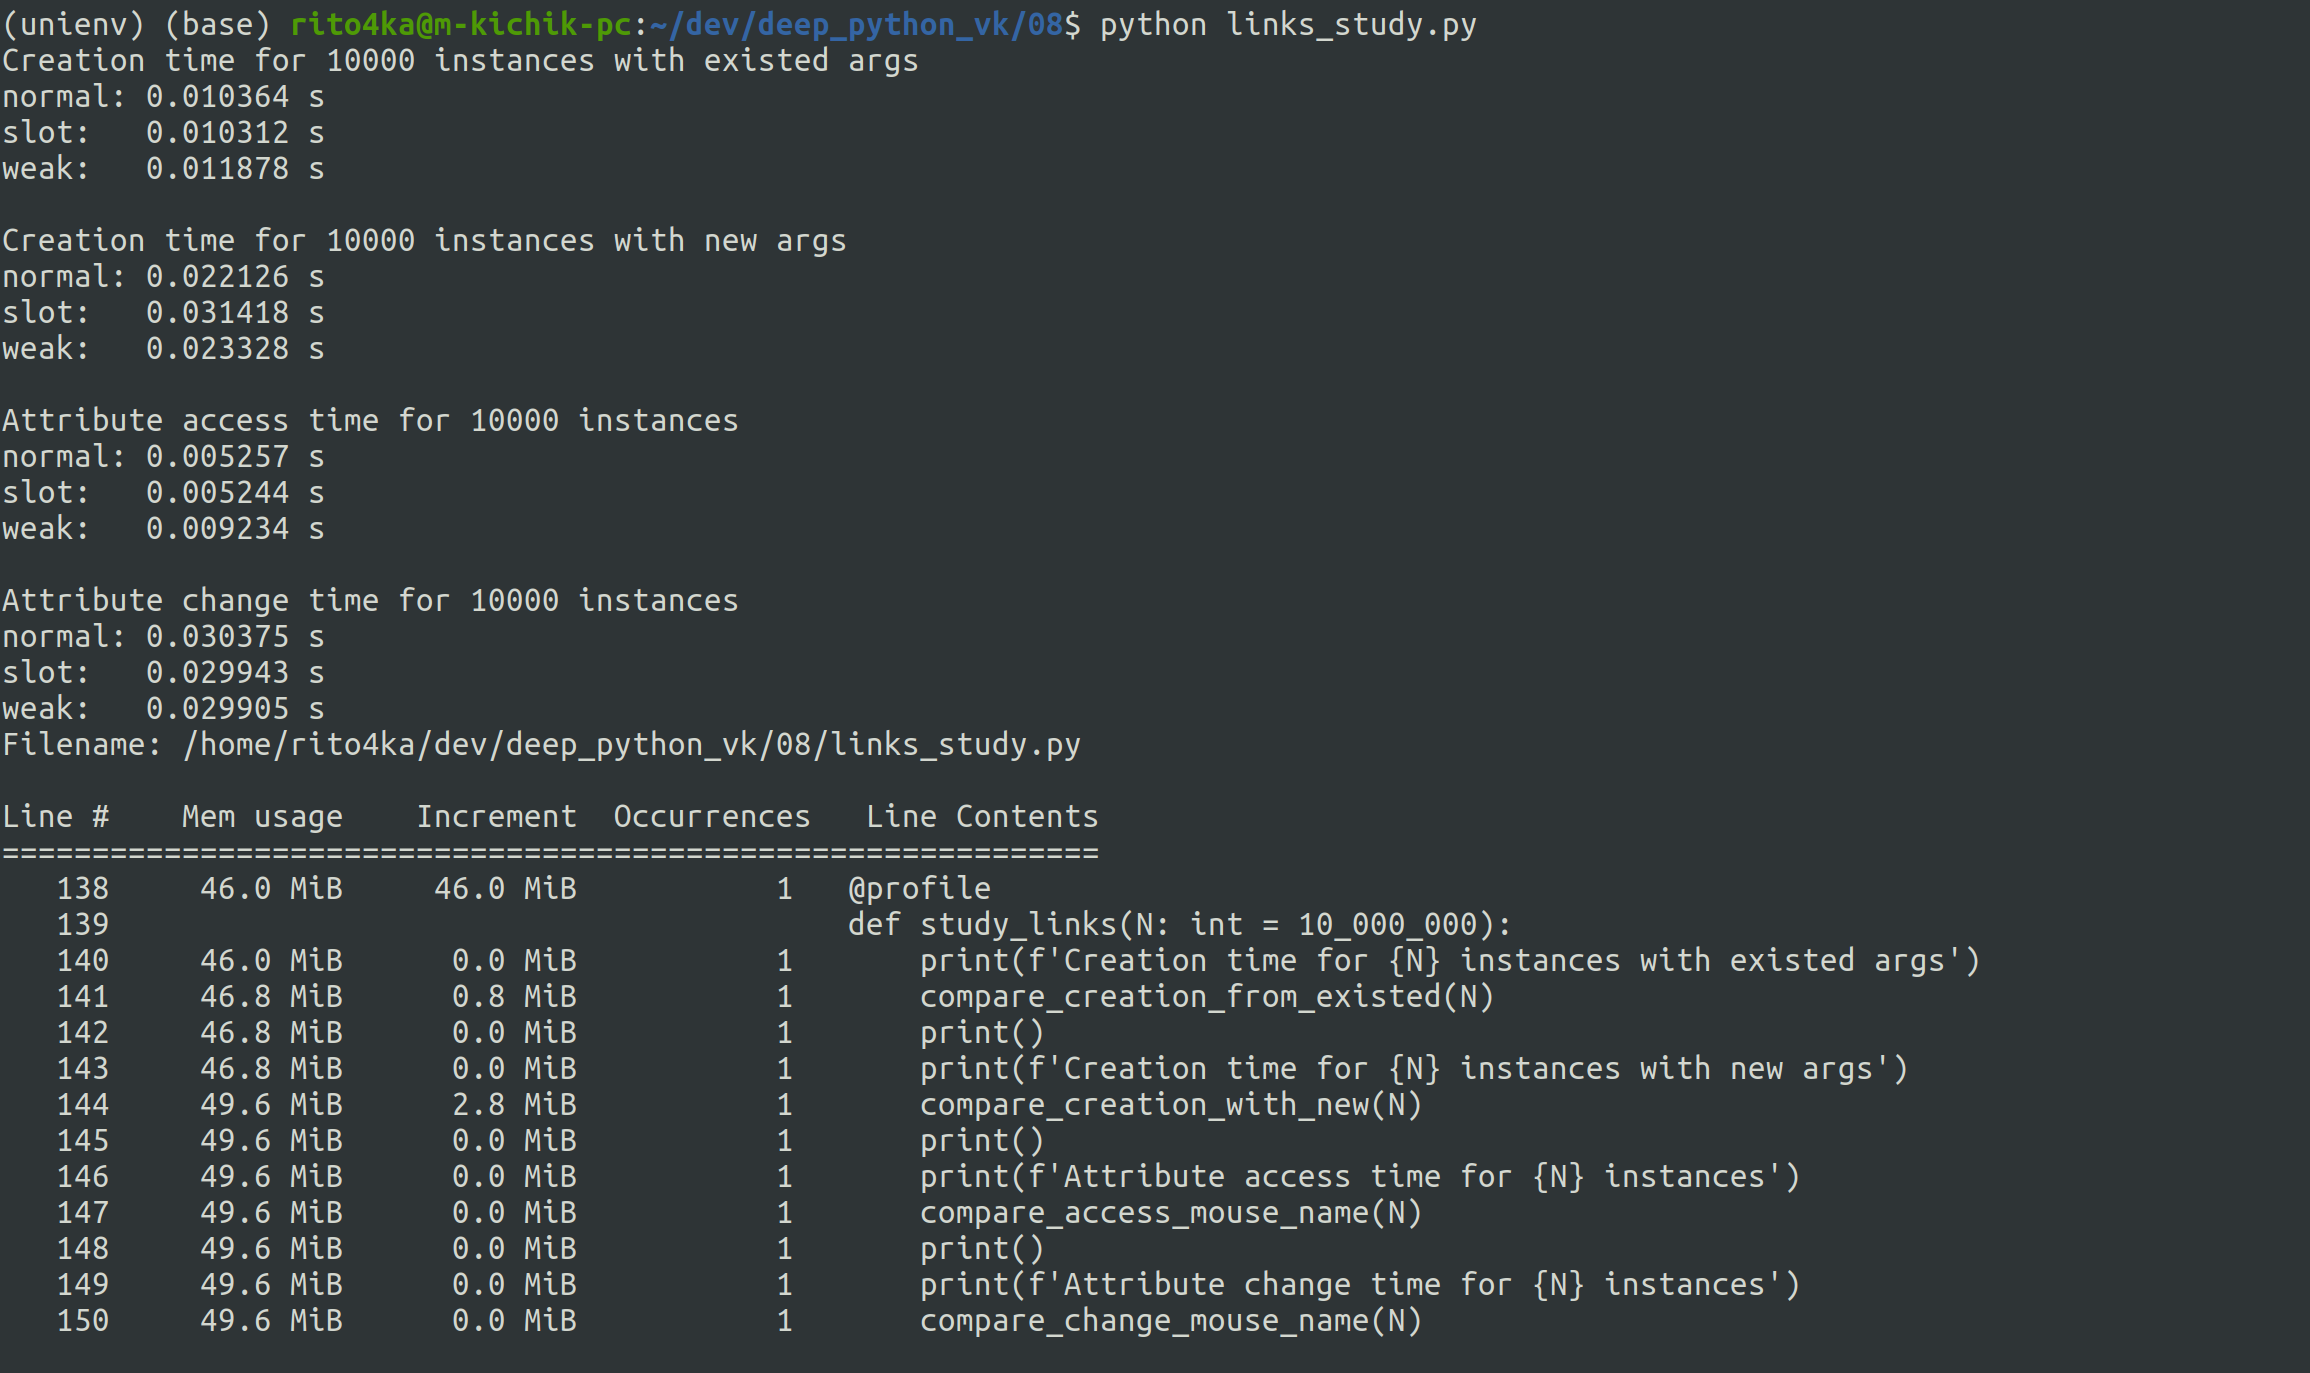
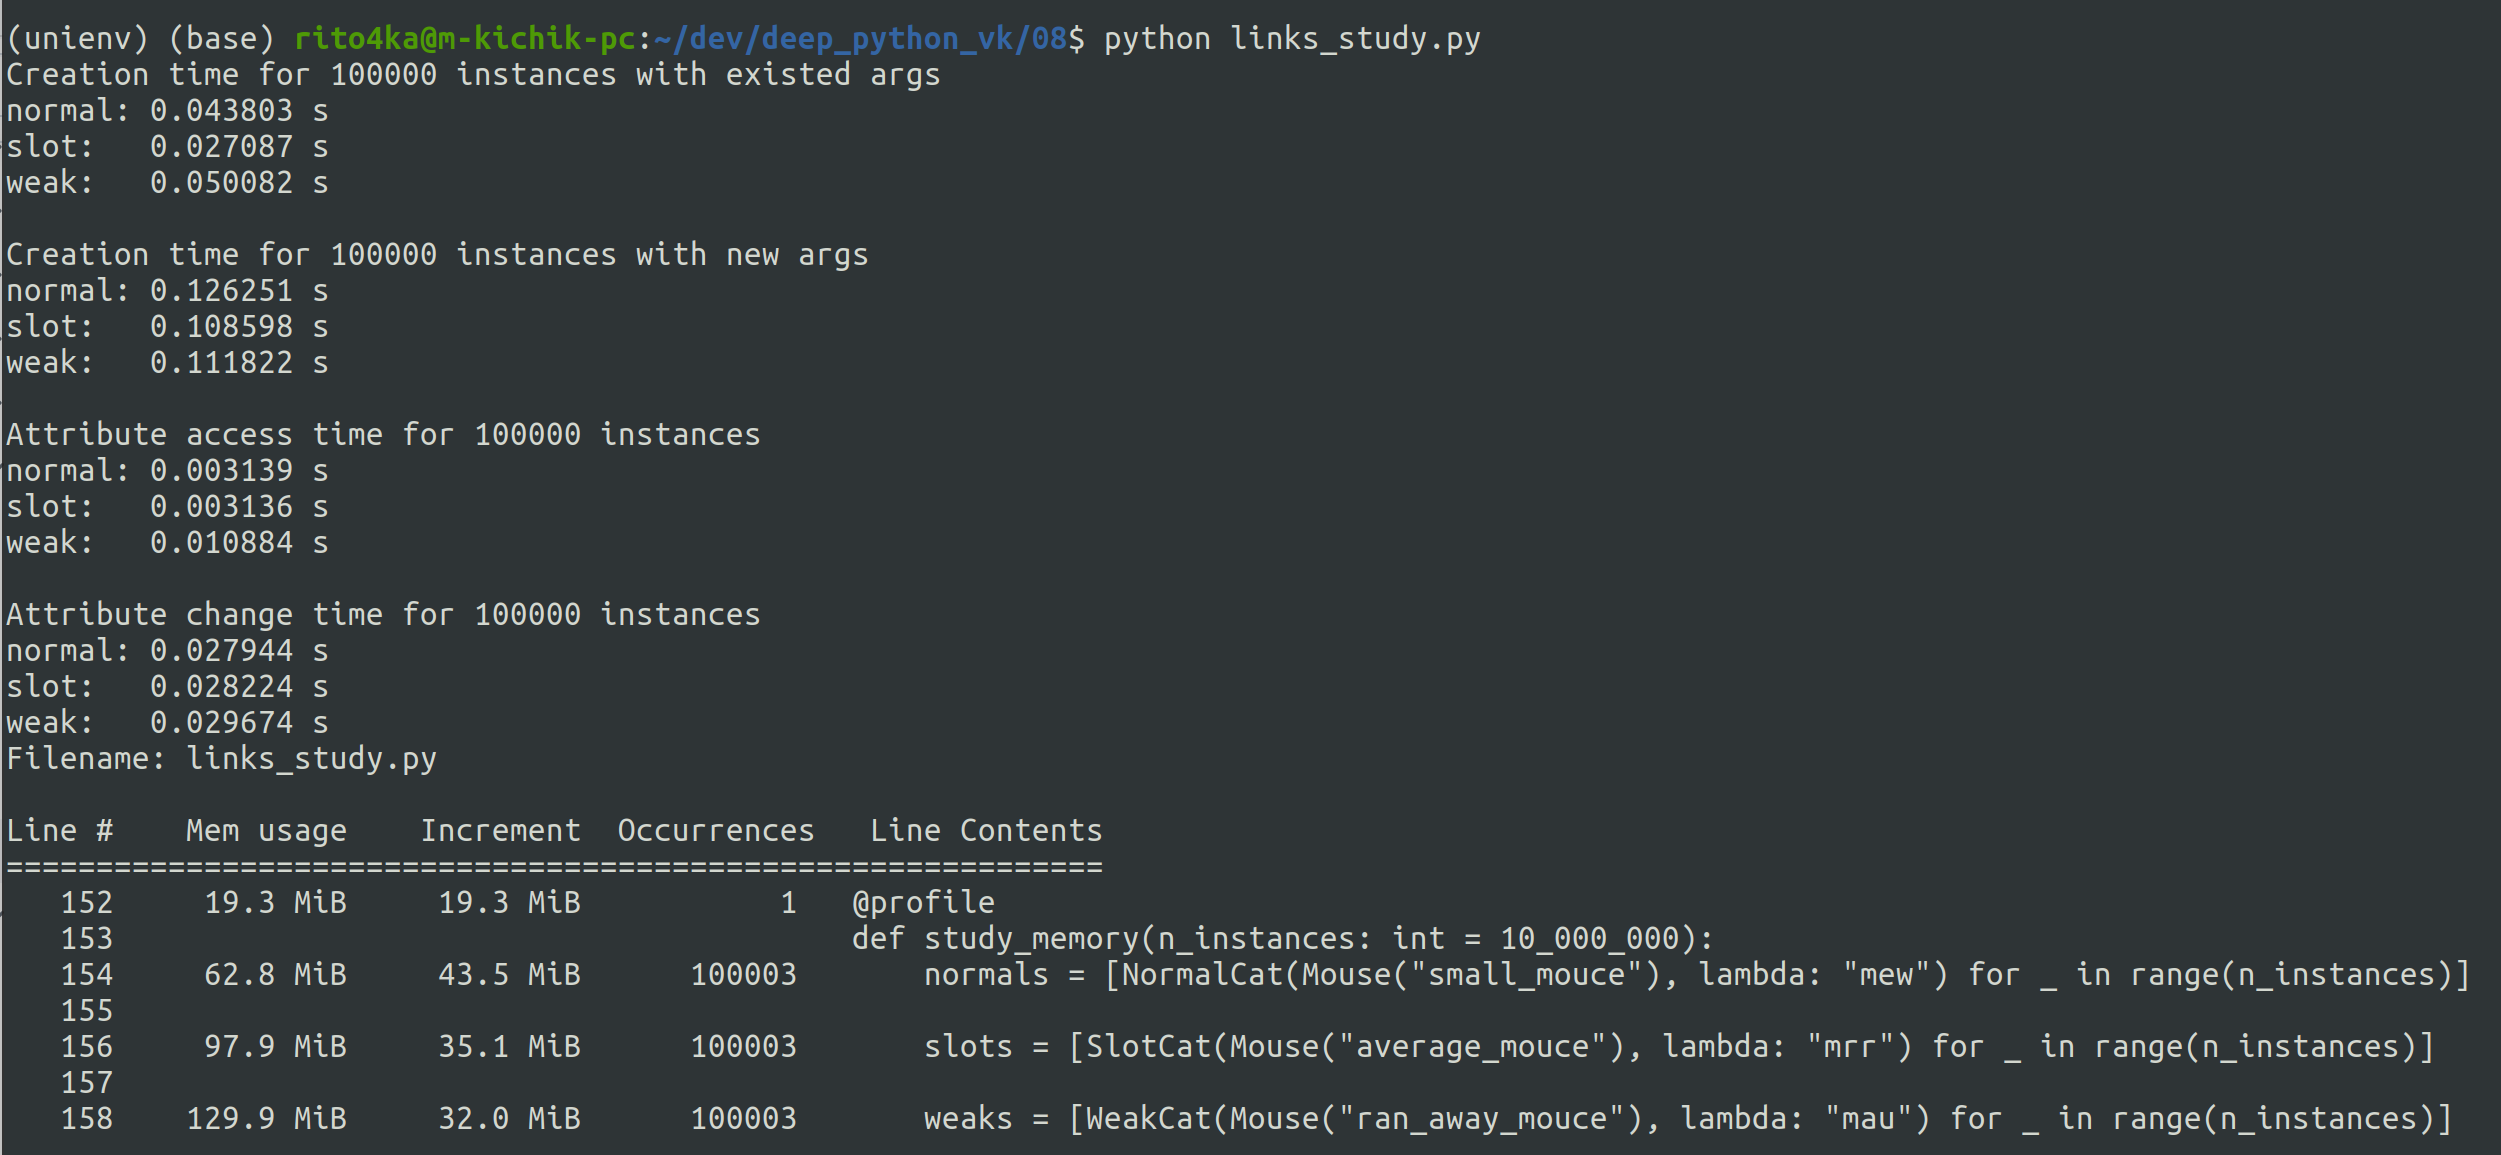
homework 8 v2.0

diff --git a/08/profiler.py b/08/profiler.py
@@ -1,81 +1,54 @@
-import copy
-import inspect
-import time
+import cProfile
+import pstats
 from typing import Callable
-
-from memory_profiler import memory_usage
 
 
 def profile_deco(function):
     class ProfileDecoClass:
         def __init__(self, function: Callable):
+            self.profiler = cProfile.Profile()
             self.function = function
-            self.source_code = inspect.getsource(function).splitlines()
-            self.n_lines = len(self.source_code)
-            self.calls = {}
-            self.call_count = 0
+            self.__name__ = function.__name__
 
         def __call__(self, *args, **kwargs):
-            self.call_count += 1
-            memory = memory_usage(
-                (self.function, copy.deepcopy(args), copy.deepcopy(kwargs))
-            )
-            start_time = time.time()
-            result = self.function(*args, **kwargs)
-            exec_time = time.time() - start_time
-
-            self.calls[self.call_count] = {
-                'memory': memory,
-                'time': exec_time,
-                }
+            result = self.profiler.runcall(self.function, *args, **kwargs)
 
             return result
 
         def print_stat(self):
-            calls = "call" if self.call_count == 1 else "calls"
-            format_string = "{:<20} | {:<20} | {:<20}"
-            print(
-                f"***Function {self.function.__name__} memory usage for {self.call_count} {calls}***"
-            )
-            for call_n, call_res in self.calls.items():
-                print(f"Call {call_n}:")
-                print(f"Execution time: {call_res['time']:.6f} s")
-                print(format_string.format("-" * 20, "-" * 20, "-" * 20))
-                print(format_string.format("Memory Usage", "Increment", "Line content"))
-                print(format_string.format("-" * 20, "-" * 20, "-" * 20))
-                mem = 0.0
-                for i in range(self.n_lines):
-                    print(
-                        format_string.format(
-                            call_res['memory'][i],
-                            call_res['memory'][i] - mem,
-                            call_res['memory'][i],
-                        )
-                    )
-                    mem += call_res['memory'][i] - mem
-                print(format_string.format("-" * 20, "-" * 20, "-" * 20))
+            print(f"\t\t***Function {self.function.__name__} stats***")
+            stats = pstats.Stats(self.profiler).sort_stats(pstats.SortKey.TIME)
+            stats.print_stats()
 
     return ProfileDecoClass(function)
 
 
-@profile_deco
+# @profile_deco
 def add(a, b):
     return a + b
 
 
-@profile_deco
+# @profile_deco
 def sub(a, b):
     return a - b
 
 
-def main():
-    add(1, 2)
-    add(4, 5)
-    sub(4, 5)
+@profile_deco
+def strange_func(a, b):
+    for _ in range(1_000_000):
+        sub(a, b)
+        add(a, b)
 
-    add.print_stat()
-    print()
-    sub.print_stat()
+
+def main():
+    #     add(1, 2)
+    #     add(4, 5)
+    #     sub(4, 5)
+
+    strange_func(4, 2)
+    strange_func.print_stat()
+    # add.print_stat()
+    # sub.print_stat()
 
 
 if __name__ == "__main__":

diff --git a/08/links_study.py b/08/links_study.py
@@ -3,6 +3,7 @@ from typing import Callable
 import weakref
 
 import random
+
 random.seed(42)
 
 from memory_profiler import profile
@@ -59,7 +60,7 @@ def compare_creation_from_existed(n_instances: int = 10_000_000):
 def compare_creation_with_new(n_instances: int = 10_000_000):
     start_time = time.time()
     normals = [
-        NormalCat(Mouse("small_____mouce"), lambda: "mew") for _ in range(n_instances)
+        NormalCat(Mouse("small_mouce"), lambda: "mew") for _ in range(n_instances)
     ]
     normal_time = time.time() - start_time
     print(f"normal: {normal_time:.6f} s")
@@ -67,7 +68,7 @@ def compare_creation_with_new(n_instances: int = 10_000_000):
 
     start_time = time.time()
     slots = [
-        SlotCat(Mouse("average__mouce"), lambda: "mrr") for _ in range(n_instances)
+        SlotCat(Mouse("average_mouce"), lambda: "mrr") for _ in range(n_instances)
     ]
     slot_time = time.time() - start_time
     print(f"slot:   {slot_time:.6f} s")
@@ -134,8 +135,7 @@ def compare_change_mouse_name(n_iterations: int = 10_000_000):
     print(f"weak:   {weak_time:.6f} s")
 
 
-@profile
-def study_links(n: int = 10_000_000):
+def study_time(n: int = 10_000_000):
     print(f"Creation time for {n} instances with existed args")
     compare_creation_from_existed(n)
     print()
@@ -149,9 +149,19 @@ def study_links(n: int = 10_000_000):
     compare_change_mouse_name(n)
 
 
+@profile
+def study_memory(n_instances: int = 10_000_000):
+    normals = [NormalCat(Mouse("small_mouce"), lambda: "mew") for _ in range(n_instances)]
+
+    slots = [SlotCat(Mouse("average_mouce"), lambda: "mrr") for _ in range(n_instances)]
+
+    weaks = [WeakCat(Mouse("ran_away_mouce"), lambda: "mau") for _ in range(n_instances)]
+
+
 def main():
-    n = 10_000_000
-    study_links(n)
+    n = 100_000
+    study_time(n)
+    study_memory(n)
 
 
 if __name__ == "__main__":
